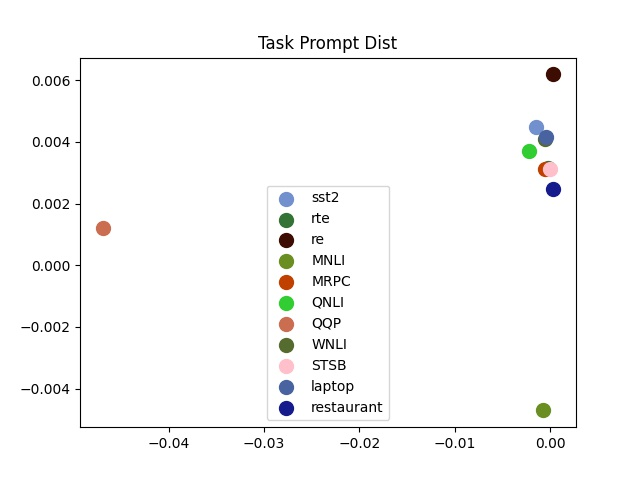
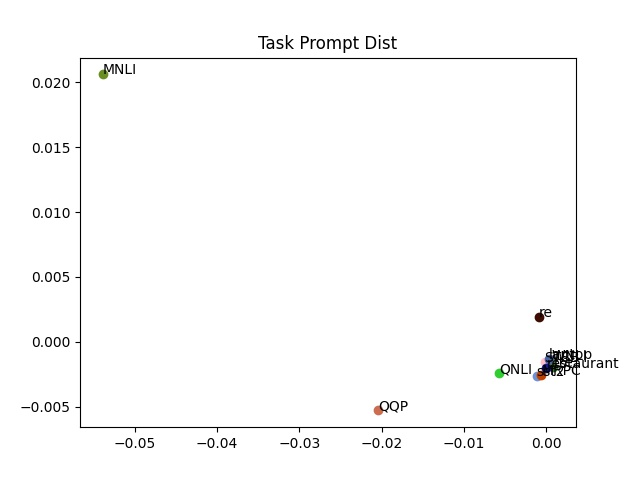
update

diff --git a/draw_cuda_taskprompt.py b/draw_cuda_taskprompt.py
@@ -411,8 +411,9 @@ blocked_list = []
 if dim ==3 :
     axes = plt.subplot(111, projection='3d')
     #axes = plt.subplot(222, projection='3d')
-#elif dim == 2:
+elif dim == 2:
     #axes = plt.subplot(111, projection='2d')
+    fig, axes = plt.subplots()
 
 else:
     pass
@@ -427,19 +428,20 @@ for task_id, task_name in task_map.items():
     if dim == 2:
         ###
         #label_map
+        '''
         plt.scatter(compressed_prompt_emb[task_id][0], compressed_prompt_emb[task_id][1], color=color_map[task_id], label=task_map[task_id], s=100)
-
-
+        '''
         #text on dot
-        '''
-        axes.plot(compressed_prompt_emb[task_id][0], compressed_prompt_emb[task_id][1], color=color_map[task_id], "o", color=color_map[task_id])
-        axes.annotate(task_map[task_id],(compressed_prompt_emb[task_id][0], compressed_prompt_emb[task_id][1], compressed_prompt_emb[task_id][2]))
-        '''
+        axes.plot(compressed_prompt_emb[task_id][0], compressed_prompt_emb[task_id][1],"o", color=color_map[task_id])
+        #axes.annotate(task_map[task_id],(compressed_prompt_emb[task_id][0], compressed_prompt_emb[task_id][1], compressed_prompt_emb[task_id][2]))
+        axes.text(compressed_prompt_emb[task_id][0], compressed_prompt_emb[task_id][1], task_map[task_id])
         ###
     elif dim == 3:
         ###
         #label_map
-        #axes.plot(compressed_prompt_emb[task_id][0], compressed_prompt_emb[task_id][1], compressed_prompt_emb[task_id][2], "o", color=color_map[task_id], label=task_map[task_id])
+        '''
+        axes.plot(compressed_prompt_emb[task_id][0], compressed_prompt_emb[task_id][1], compressed_prompt_emb[task_id][2], "o", color=color_map[task_id], label=task_map[task_id])
+        '''
 
         #text on dot
         axes.plot(compressed_prompt_emb[task_id][0], compressed_prompt_emb[task_id][1], compressed_prompt_emb[task_id][2], "o", color=color_map[task_id])
@@ -449,11 +451,12 @@ for task_id, task_name in task_map.items():
         print("Wonrg!!!")
         exit()
 
-
+'''
 if dim == 2:
     plt.legend()
 elif dim == 3:
     pass
+'''
 
 
 #plt.legend()
